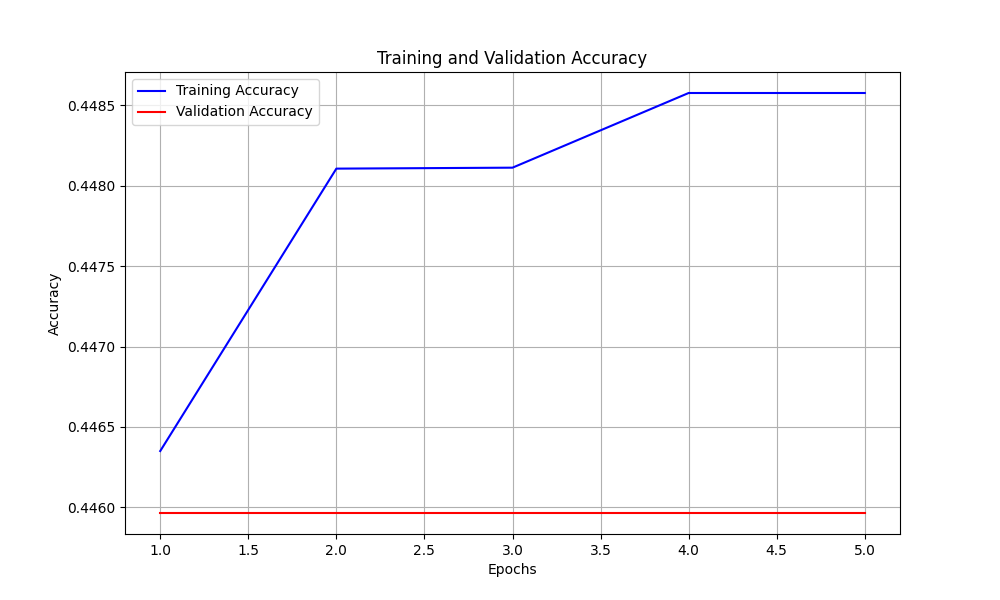
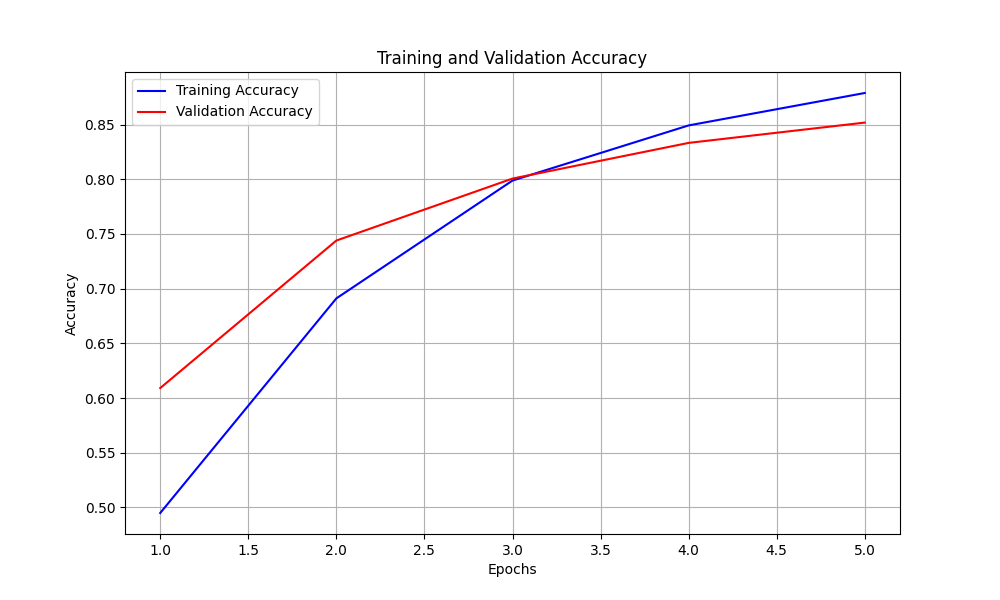
First Good Model

diff --git a/train/bigger_model.py b/train/bigger_model.py
@@ -25,44 +25,53 @@ from dataset import DataHandler
 
 class InitBlock(nn.Module):
     def __init__(self, model_width: int, dropout_rate: float = 0.3):
-        super(InitBlock, self).__init__()
+        super().__init__()
         self.input_size = 837
-        self.activ = nn.GELU()
-        self.dropout = nn.Dropout(dropout_rate)
-        
-        # Two layer setup for better feature extraction
+        self.model_width = model_width
+
+        # 1) Pre-LayerNorm
+        self.input_norm = nn.LayerNorm(self.input_size)
+
+        # 2) MLP layers
         self.linear1 = nn.Linear(self.input_size, model_width * 2)
         self.linear2 = nn.Linear(model_width * 2, model_width)
-        
-        self.layer_norm1 = nn.LayerNorm(model_width * 2)
-        self.layer_norm2 = nn.LayerNorm(model_width)
-        
-        self.model_width = model_width
-        
-        # Better initialization
+
+        # 3) Skip-projection
+        self.skip_proj = nn.Linear(self.input_size, model_width)
+
+        self.activ = nn.GELU()
+        self.dropout = nn.Dropout(dropout_rate)
+
+        # 4) Initialization
         nn.init.kaiming_normal_(self.linear1.weight)
-        nn.init.kaiming_normal_(self.linear2.weight)
-    
+        nn.init.zeros_(self.linear1.bias)
+        nn.init.xavier_normal_(self.linear2.weight)
+        nn.init.zeros_(self.linear2.bias)
+        nn.init.kaiming_normal_(self.skip_proj.weight)
+        nn.init.zeros_(self.skip_proj.bias)
+
     def forward(self, inputs: torch.Tensor) -> torch.Tensor:
         if not isinstance(inputs, torch.Tensor):
-            raise ValueError(f"Invalid Type Final Layer {type(inputs)} expected {type(torch.Tensor)}")
-        
+            raise ValueError(f"Expected Tensor but got {type(inputs)}")
         if inputs.size(1) != self.input_size:
-            raise ValueError(f"inputs Board Tensor Improper Size: \n Received Size: {inputs.size(1)} \n Expected Size: {self.input_size}")
-        
-        # First layer with expansion
-        embedding = self.linear1(inputs)
-        embedding = self.layer_norm1(embedding)
-        embedding = self.activ(embedding)
-        embedding = self.dropout(embedding)
-        
-        # Second layer with projection
-        embedding = self.linear2(embedding)
-        embedding = self.layer_norm2(embedding)
-        embedding = self.activ(embedding)
-        embedding = self.dropout(embedding)
-        
-        return embedding
+            raise ValueError(
+                f"Expected input size {self.input_size}, got {inputs.size(1)}"
+            )
+
+        # Pre-normalize
+        y = self.input_norm(inputs)
+
+        # MLP expansion → projection
+        y = self.linear1(y)
+        y = self.activ(y)
+        y = self.dropout(y)
+        y = self.linear2(y)
+
+        # Skip + dropout
+        res = self.skip_proj(inputs)
+        out = res + y
+        out = self.dropout(out)
+        return out
 
 
 class FeedForwardBlock(nn.Module):
@@ -84,15 +93,15 @@ class FeedForwardBlock(nn.Module):
     
     def forward(self, x: torch.Tensor) -> torch.Tensor:
         residual = x
-        
+        x = self.layer_norm(x)
         # Feed-forward network
         x = self.linear1(x)
         x = self.activ(x)
-        #x = self.dropout(x)
+        x = self.dropout(x)
         x = self.linear2(x)
-        #x = self.dropout(x)
+        x = self.dropout(x)
         # Residual connection and layer normalization
-        x = self.layer_norm(x + residual)
+        x = x + residual
         
         return x
 
@@ -102,54 +111,57 @@ class EnhancedHiddenBlock(nn.Module):
         super(EnhancedHiddenBlock, self).__init__()
         self.model_width = model_width
         self.attention = nn.MultiheadAttention(model_width, num_heads, dropout=dropout_rate)
-        #self.attention = AttentionBlock(model_width, num_heads, dropout_rate)
+        self.layer_norm = nn.LayerNorm(model_width)
+        self.dropout = nn.Dropout(dropout_rate)
         self.feed_forward = FeedForwardBlock(model_width, dropout_rate=dropout_rate)
     
     def forward(self, x: torch.Tensor) -> torch.Tensor:
+        y = self.layer_norm(x)
         # Apply attention mechanism
-        x, _ = self.attention(x, x, x)
-        
+        attn_out, _ = self.attention(y, y, y)
+        attn_out = self.dropout(attn_out)
+
+        x = x + attn_out
+        y = self.layer_norm(x)
         # Apply feed-forward network
-        x = self.feed_forward(x)
-        
+        ff_out = self.feed_forward(y)
+        x = x + self.dropout(ff_out)
+
         return x
 
 
 class FinalBlock(nn.Module):
     def __init__(self, model_width: int, dropout_rate: float = 0.3):
-        super(FinalBlock, self).__init__()
+        super().__init__()
         self.output_size = 3
-        
-        # Two layer output for better probability estimation
-        self.linear1 = nn.Linear(model_width, model_width // 2)
-        self.linear2 = nn.Linear(model_width // 2, self.output_size)
-        
-        self.layer_norm = nn.LayerNorm(model_width)
-        self.dropout = nn.Dropout(dropout_rate)
-        self.activ = nn.GELU()
-        
-        self.model_width = model_width
-        
-        # Initialize weights
-        nn.init.xavier_normal_(self.linear1.weight)
-        nn.init.xavier_normal_(self.linear2.weight)
-    
-    def forward(self, inputs: torch.Tensor) -> torch.Tensor:
-        if not isinstance(inputs, torch.Tensor):
-            raise ValueError(f"Invalid Type Final Layer {type(inputs)} expected {type(torch.Tensor)}")
 
-        if inputs.size(1) != self.model_width:
-            raise ValueError(f"Final Tensor Improper Size: \n Received Size: {inputs.size(1)} \n Expected Size: {self.model_width}")
-        
-        # First layer
-        embedding = self.layer_norm(inputs)
-        embedding = self.linear1(embedding)
-        embedding = self.activ(embedding)
-        embedding = self.dropout(embedding)
-        
-        # Output layer
-        embedding = self.linear2(embedding)
-        embedding = F.log_softmax(embedding, dim=1)
+        # 1) Pre-LayerNorm
+        self.input_norm = nn.LayerNorm(model_width)
+
+        # 2) Two-layer MLP head
+        self.linear1 = nn.Linear(model_width, model_width // 2)
+        self.activ   = nn.GELU()
+        self.dropout = nn.Dropout(dropout_rate)
+        self.linear2 = nn.Linear(model_width // 2, self.output_size)
+
+        # 3) Initialize weights + zero biases
+        nn.init.kaiming_normal_(self.linear1.weight, nonlinearity='relu')
+        nn.init.zeros_(self.linear1.bias)
+        nn.init.xavier_normal_(self.linear2.weight)
+        nn.init.zeros_(self.linear2.bias)
+
+    def forward(self, x: torch.Tensor) -> torch.Tensor:
+        # sanity checks
+        if x.dim() != 2 or x.size(1) != self.input_norm.normalized_shape[0]:
+            raise ValueError(f"Expected input shape [batch, {self.input_norm.normalized_shape[0]}], got {tuple(x.shape)}")
+
+        # Pre-norm → MLP → dropout → logits
+        x = self.input_norm(x)
+        x = self.linear1(x)
+        x = self.activ(x)
+        x = self.dropout(x)
+        logits = self.linear2(x)
+        embedding = F.log_softmax(logits, dim=1)
         
         return embedding
 
@@ -634,7 +646,7 @@ if __name__ == "__main__":
     NUM_HEADS = 4           # New parameter for attention mechanism
     LEARNING_RATE = 1e-3
     BATCH_SIZE = 256
-    NUM_EPOCHS = 5
+    NUM_EPOCHS = 50
     DROPOUT_RATE = 0.05
     
     # Create and train enhanced model
